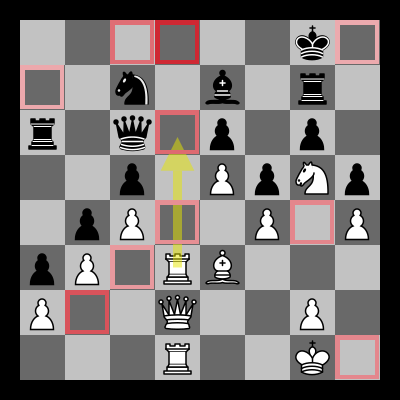
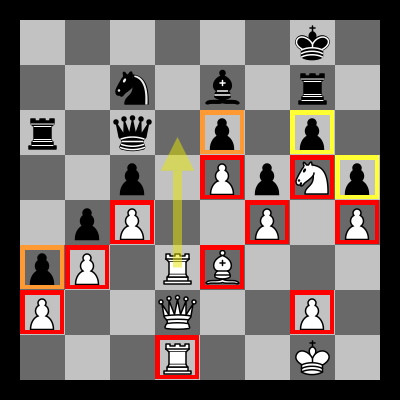
reimplemented pairs algo for important groups into rohan's framework

diff --git a/sarfa/visualization.py b/sarfa/visualization.py
@@ -174,3 +174,83 @@ class OffenseDefenseBoardVisualization():
         self._draw_saliency_boxes(heatmap, offense_defense_heatmap)
 
         return f"{self.DRAWING_FILE}.png"
+
+class PairsBoardVisualization():
+    DRAWING_FILE = "svg_custom/board"
+    def __init__(self, board: Board):
+        self.board : Board = board
+
+    def only_board(self) -> "displayable":
+        """
+        Displays only the board for of the FEN without
+        any extra visualizations.
+        """
+        return self.board
+
+    def get_heatmap(self, important_groups: list[list[str]]) -> np.array:
+        # Heatmap of saliency icons
+        heatmap = np.zeros((8, 8))
+        heatmap[:, :] = -1
+        for i, group in enumerate(important_groups):
+            for position in group:
+                row, col = pos_to_index_mapping(position)
+                heatmap[row, col] = i
+
+        heatmap = np.flipud(heatmap)
+
+        return heatmap
+
+    def _draw_saliency_boxes(self, heatmap: np.array):
+        # define group colors with RGB
+        colors = [(255, 0, 0), (255, 153, 51), (255, 255, 51), (153, 255, 51), (51, 255, 255), (0,0,255), (127,0,255), (255,0,255), (128, 128, 128)]
+
+        # original board as a numpy array
+        board_array = cv2.imread(f"{self.DRAWING_FILE}.png")
+
+        threshold = 0
+
+        # Create bounding boxes with saliency colours for every square on chess board
+        for i in range(0, 8, 1):
+            for j in range(0, 8, 1):
+                ii = 45*i+20
+                jj = 45*j+20
+                value_of_square =  heatmap[i, j]
+                if value_of_square < threshold:
+                    continue
+                for box_i in range(ii, ii+44, 1):
+                    for box_j in range(jj, jj+44, 1):
+                        if box_i > ii+4 and box_i < ii+40 and box_j > jj+4 and box_j < jj+40:
+                            continue
+
+                        board_array[box_i, box_j, 0] = colors[int(heatmap[i, j])][2]
+                        board_array[box_i, box_j, 1] = colors[int(heatmap[i, j])][1]
+                        board_array[box_i, box_j, 2] = colors[int(heatmap[i, j])][0]
+
+        cv2.imwrite(f"{self.DRAWING_FILE}.png", board_array)
+
+    def show_heatmap(self, important_groups: list[list[str]], best_move: Move) -> str:
+        """
+        Generates heatmap for saliency evaluation of the best move
+
+        Returns path (string) to SVG image with correct drawings.
+
+        ```bash
+        board_path = Visualizer.show_heatmap(...)
+        display(Image(board_path))
+        ```
+        """
+        heatmap = self.get_heatmap(important_groups)
+
+        # draw svg with arrow best_move
+        arrows = []
+        if best_move:
+            arrows = [svg_custom.Arrow(tail =  best_move.from_square, head = best_move.to_square, color = '#e6e600')]
+        svg = svg_custom.board(self.board, arrows = arrows)
+
+        with open(f"{self.DRAWING_FILE}.svg", 'w+') as f:
+            f.write(svg)
+        cairosvg.svg2png(url=f"{self.DRAWING_FILE}.svg", write_to=f"{self.DRAWING_FILE}.png")
+
+        self._draw_saliency_boxes(heatmap)
+
+        return f"{self.DRAWING_FILE}.png"

diff --git a/sarfa/utils.py b/sarfa/utils.py
@@ -1,4 +1,6 @@
 import chess
+import networkx as nx
+import matplotlib.pyplot as plt
 
 def get_pos_obj(board_position: str) -> "chess-like-object":
     mapping = {
@@ -76,3 +78,33 @@ def pos_to_index_mapping(pos):
     rows = {'1': 0, '2': 1, '3': 2, '4': 3, '5': 4, '6': 5, '7': 6, '8': 7}
     cols = {'a': 0, 'b': 1, 'c': 2, 'd': 3, 'e': 4, 'f': 5, 'g': 6, 'h': 7}
     return (rows[pos[1]], cols[pos[0]])
+
+def dfs(curr_node, graph, visited_set):
+    visited_set.add(curr_node)
+    if (curr_node in graph):
+        for neighbor in graph[curr_node]:
+            if (neighbor not in visited_set):
+                dfs(neighbor, graph, visited_set)
+    return
+
+
+def visualize_directed_graph(graph):
+    """
+    Visualize a directed graph
+    """
+
+    G = nx.DiGraph()
+    
+    for node, neighbors in graph.items():
+        for neighbor in neighbors:
+            G.add_edge(node, neighbor)
+    
+    plt.figure(figsize=(4, 4))
+    pos = nx.spring_layout(G) 
+    nx.draw(G, pos, with_labels=True, node_color='lightblue', node_size=75, font_size=6, font_weight='bold', edge_color='gray', arrows=True)
+
+    edge_labels = {edge: '' for edge in G.edges}
+    nx.draw_networkx_edge_labels(G, pos, edge_labels=edge_labels, font_color='red')
+    
+    plt.title("Directed Graph Visualization")
+    plt.show()

diff --git a/sarfa/saliency_calculator.py b/sarfa/saliency_calculator.py
@@ -45,5 +45,21 @@ class SarfaBaseline:
             return saliency, dP, optimal_move_original_board
 
         return saliency, optimal_move_original_board
+    
+    def compute_q_values(self, perturbed_board: chess.Board) -> tuple[dict[str, float], dict[str, float], str]:
+
+        # action space shared by the original board
+        # and the original board
+        common_actions: set[chess.Move] = self.original_board_actions & set(perturbed_board.legal_moves)
+        
+        # only keep the keys which are in the common set 
+        # of legal actions
+        q_vals_original_board_common: dict[str, float] = {move: q_val for move, q_val in self.q_vals_original_board.items() if chess.Move.from_uci(move) in common_actions}
+        # final optimal action by max q-value
+        optimal_move_original_board: str = max(q_vals_original_board_common, key=q_vals_original_board_common.get)
+
+        q_vals_perturbed_board, _ = self.engine.q_values(perturbed_board, common_actions, runtime=self.runtime)
+
+        return q_vals_original_board_common, q_vals_perturbed_board, optimal_move_original_board
 
 

diff --git a/sarfa/__init__.py b/sarfa/__init__.py
@@ -1,10 +1,10 @@
-from .visualization import BoardVisualization
-from .visualization import OffenseDefenseBoardVisualization
+from .visualization import BoardVisualization, OffenseDefenseBoardVisualization, PairsBoardVisualization
 from . import core
 from .engine import Engine
 from .perturbation_handler import RemovalPerturber
 from .perturbation_handler import AddPerturber
 from .saliency_calculator import SarfaBaseline
+from .utils import visualize_directed_graph, dfs
 
 __all__ = [
     "BoardVisualization",
